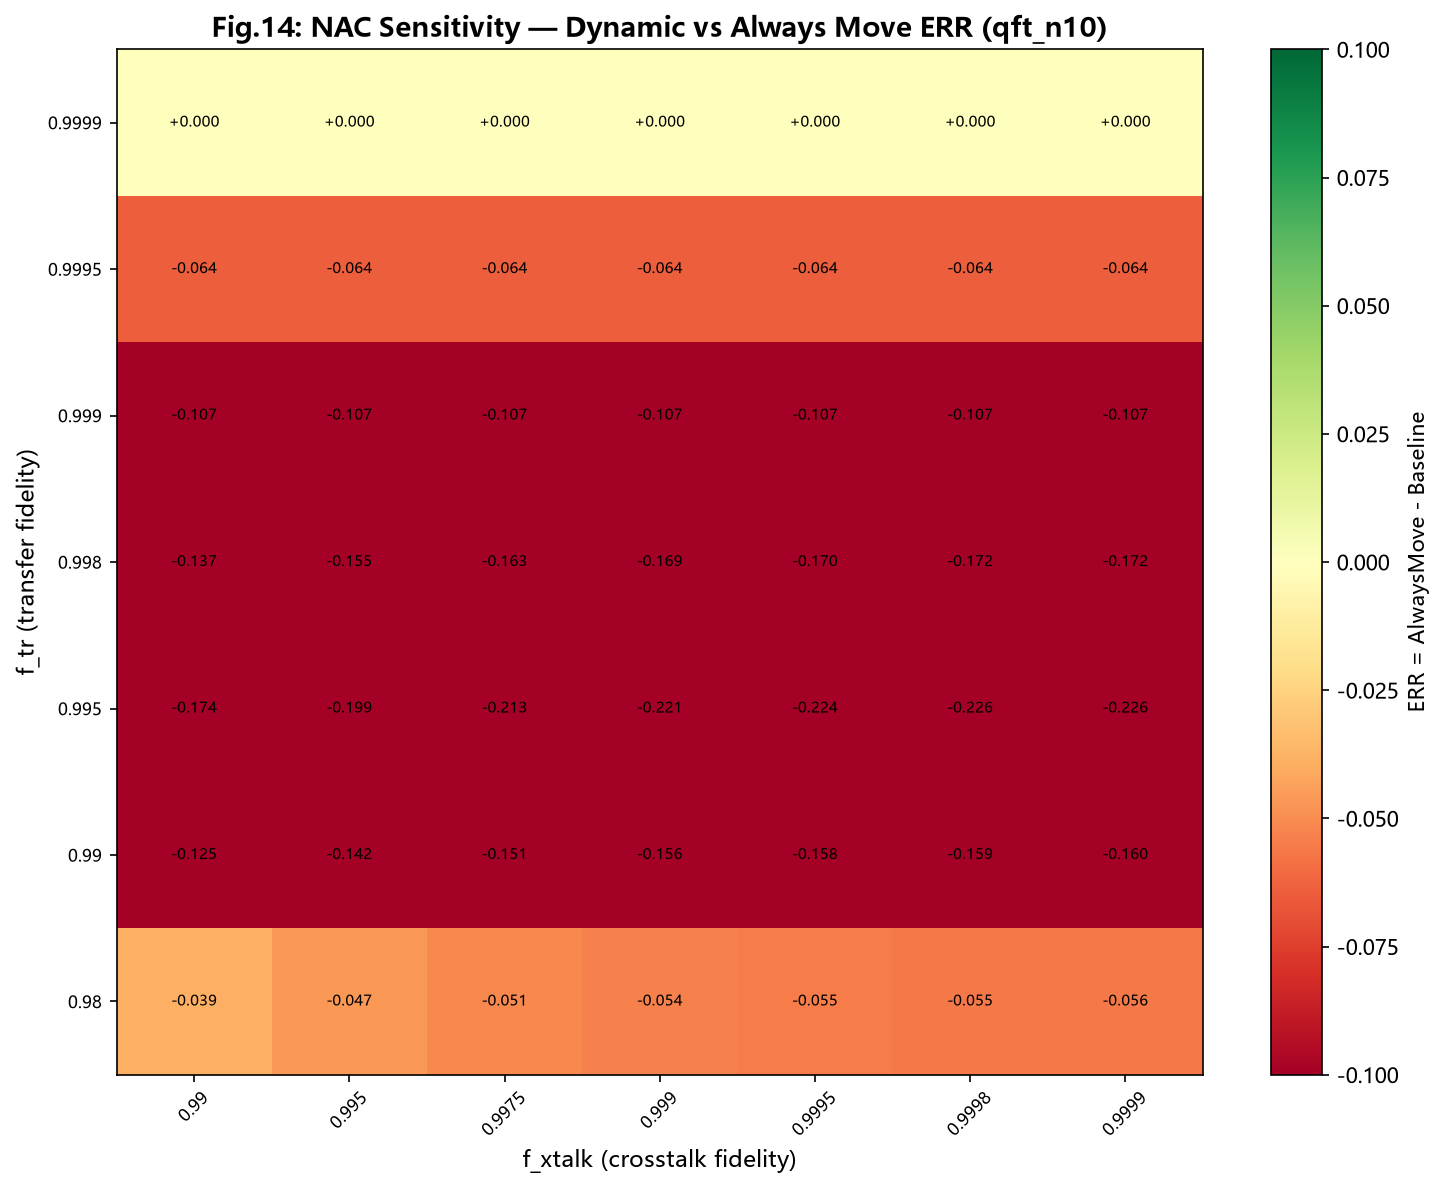
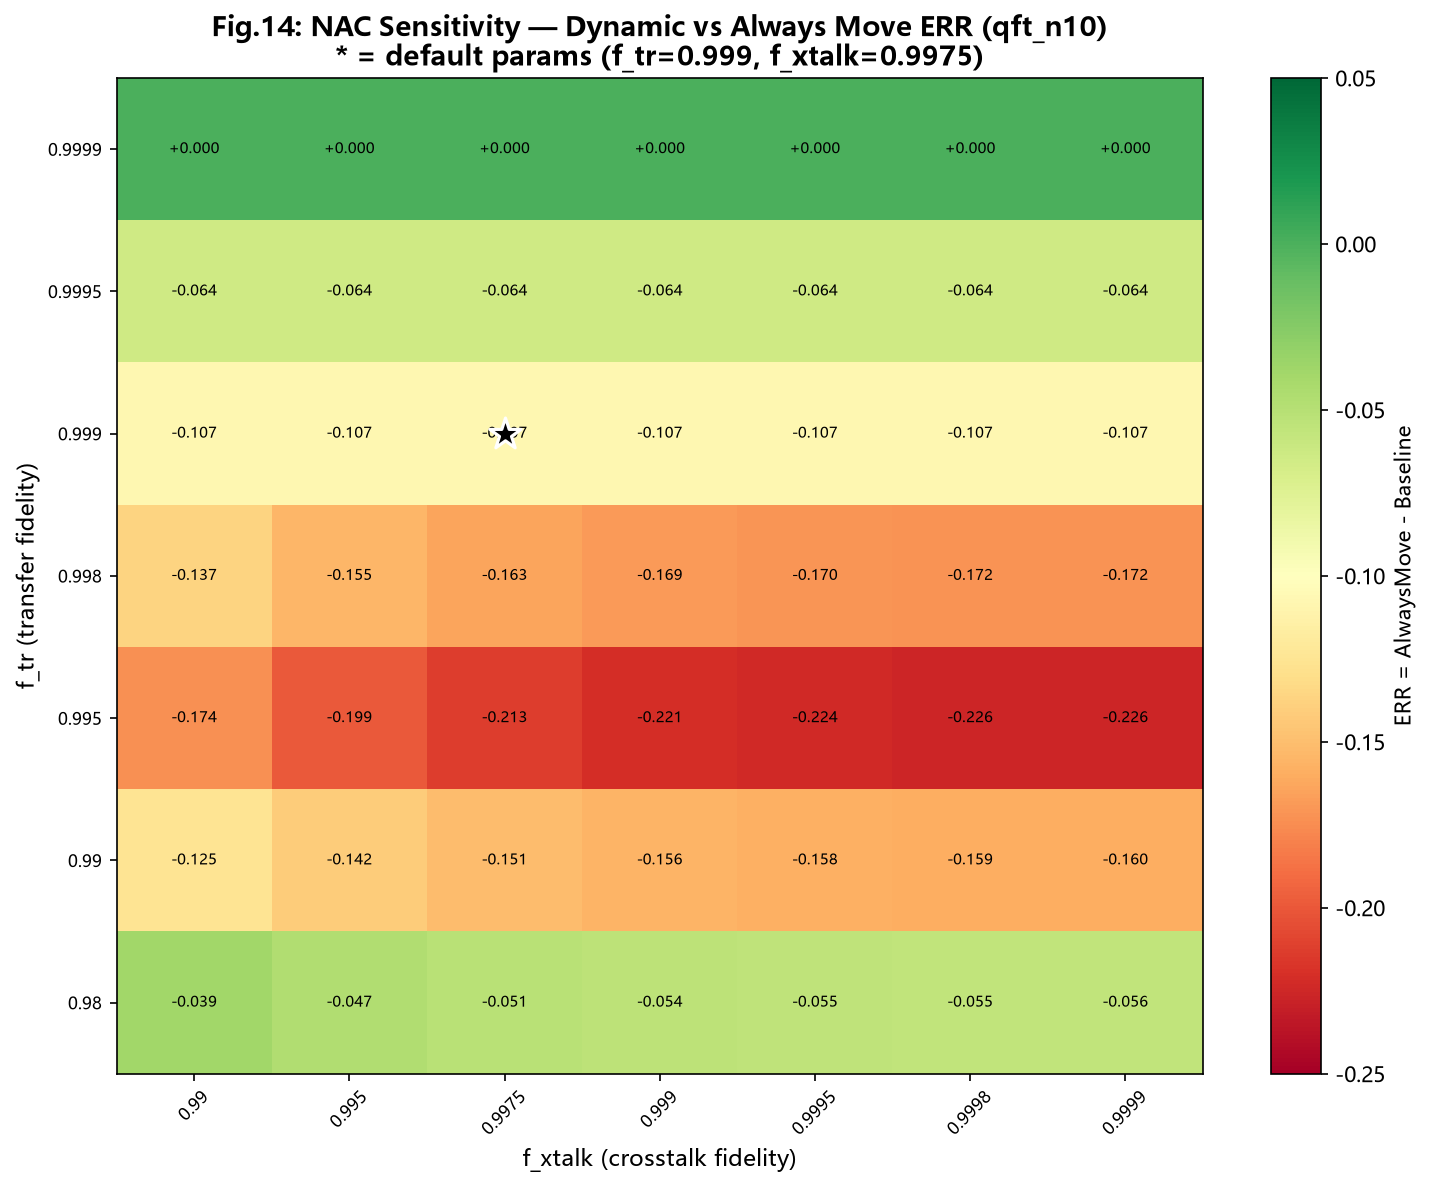
fix: Fig.14 热力图加默认参数星标 (f_tr=0.999, f_xtalk=0.9975)

diff --git a/experiments/fig7_14_nac.py b/experiments/fig7_14_nac.py
@@ -223,6 +223,12 @@ def fig14():
     for i in range(len(f_tr_vals)):
         for j in range(len(f_xtalk_vals)):
             ax.text(j, i, f"{err_matrix[i][j]:+.3f}", ha="center", va="center", fontsize=7)
+    # Mark default parameter point (f_tr=0.999, f_xtalk=0.9975)
+    default_i = list(f_tr_vals).index(0.999) if 0.999 in f_tr_vals else None
+    default_j = list(f_xtalk_vals).index(0.9975) if 0.9975 in f_xtalk_vals else None
+    if default_i is not None and default_j is not None:
+        ax.scatter(default_j, default_i, marker='*', s=200, color='black',
+                   edgecolors='white', linewidth=1.5, zorder=10)
     fig.tight_layout()
     fig.savefig(str(OUT / "fig14_sensitivity.png"), dpi=150, bbox_inches="tight")
     plt.close(fig)